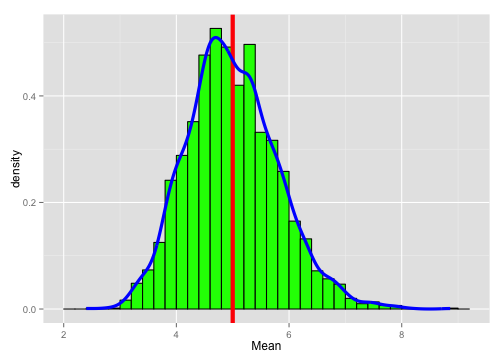
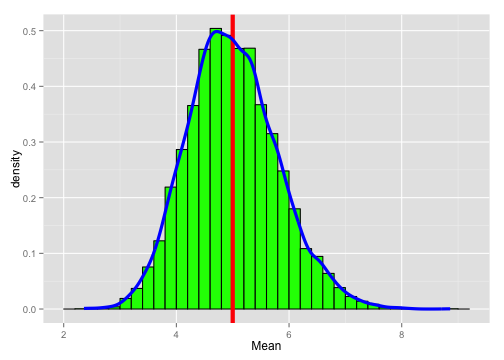
amending slidify files and folders for DevelopingDataProducts

diff --git a/index.html b/index.html
@@ -83,7 +83,7 @@
     <h2>Plot 2</h2>
   </hgroup>
   <article data-timings="">
-    <p>Sample size is 3000.</p>
+    <p>Sample size is 10000.</p>
 
 <p><img src="assets/fig/simulation2-1.png" alt="plot of chunk simulation2"> </p>
 
